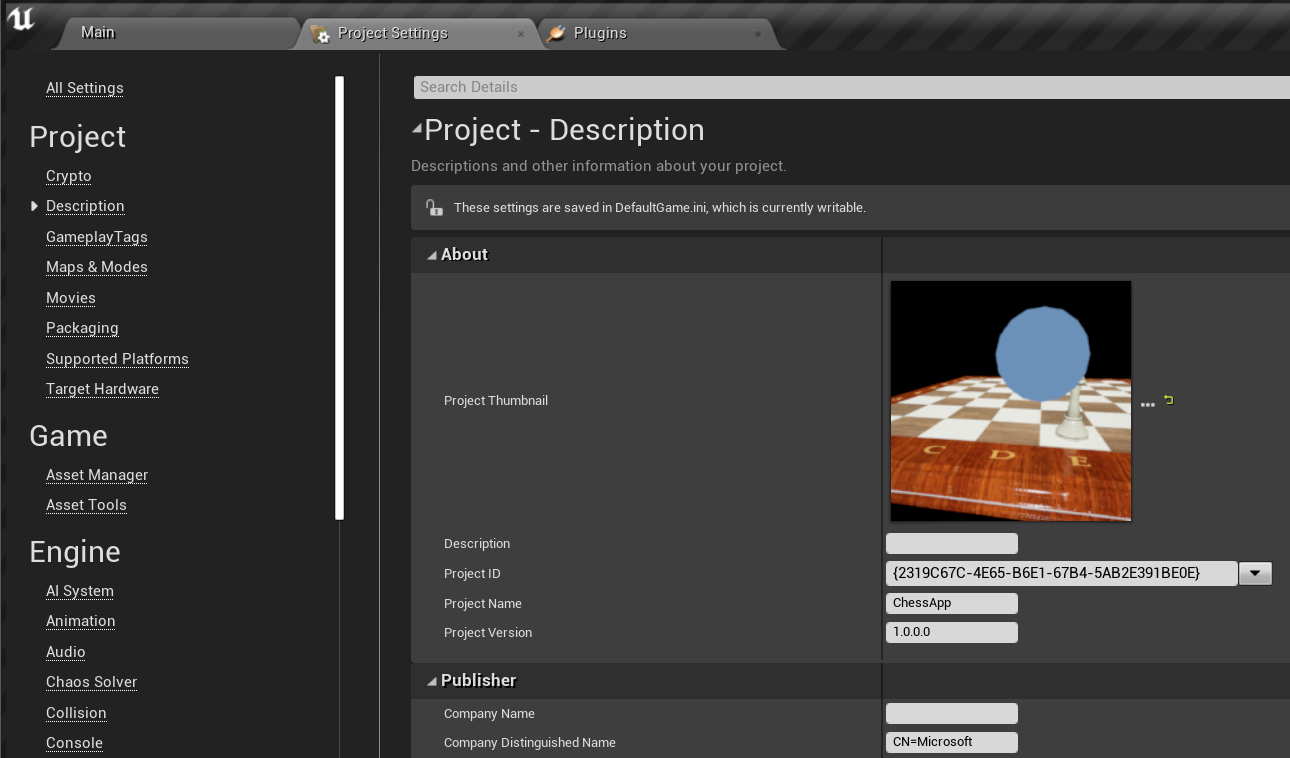
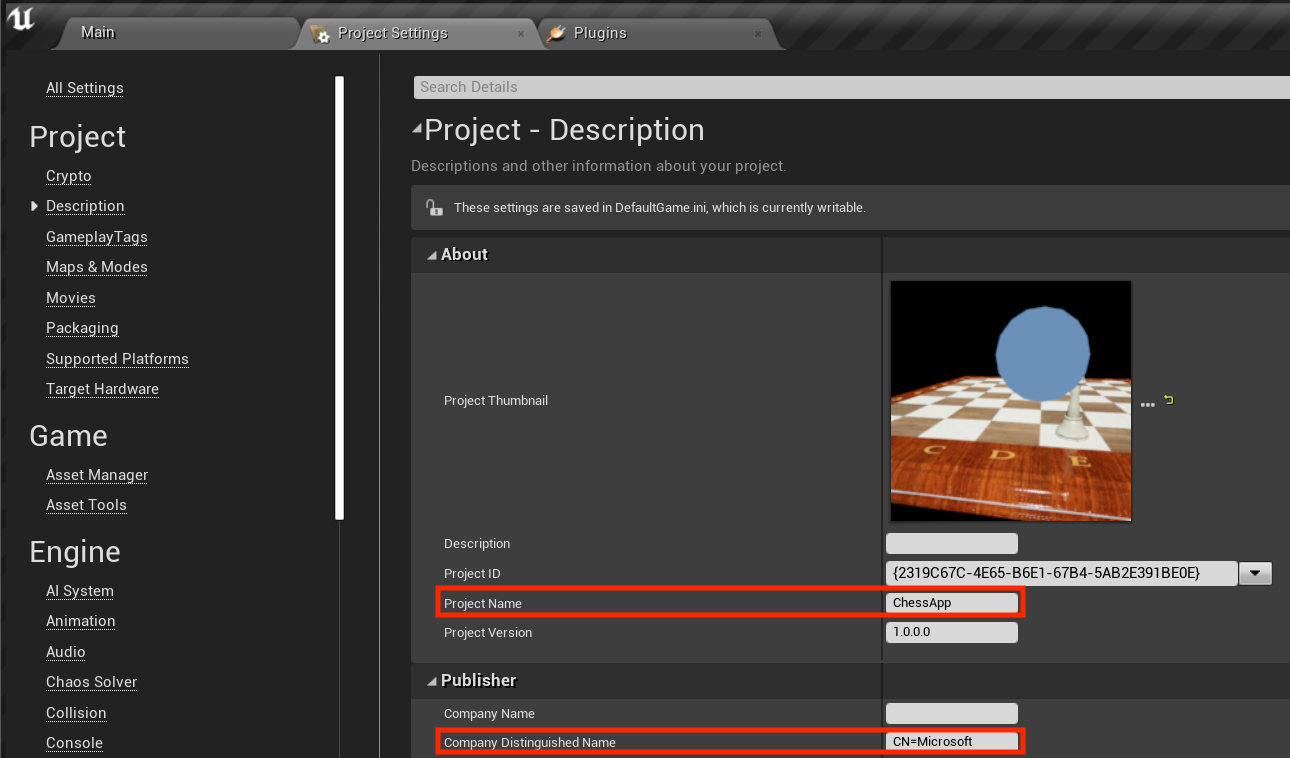
Update Unreal tutorial series 6/6. Add missing images, formatting, and content clarity. Readability increased from 60-61.

Changed region(s): [[0.3101, 0.9406, 0.8062, 1.0], [0.3101, 0.7586, 0.8062, 0.8193]]

diff --git a/mixed-reality-docs/unreal-uxt-ch6.md b/mixed-reality-docs/unreal-uxt-ch6.md
@@ -1,8 +1,8 @@
 ---
 title: 6. Packaging & deploying to device or emulator
-description: Part 6 of a tutorial to build a simple chess app using Unreal Engine 4 and the Mixed Reality Toolkit UX Tools plugin
-author: sw5813
-ms.author: suwu
+description: Part 6 of 6 in a tutorial series to build a simple chess app using Unreal Engine 4 and the Mixed Reality Toolkit UX Tools plugin
+author: hferrone
+ms.author: v-haferr
 ms.date: 5/5/2020
 ms.topic: article
 ms.localizationpriority: high
@@ -11,47 +11,62 @@ keywords: Unreal, Unreal Engine 4, UE4, HoloLens, HoloLens 2, mixed reality, tut
 
 # 6. Packaging & deploying to device or emulator
 
-This section walks you through the steps of preparing your app to run on a HoloLens 2 device or Emulator. If you have a device, you can either stream from your computer to the device or package the app to run directly on the device. If you do not have a device, you will need to package the app for it to run on the Emulator. 
+## Overview
+
+In the previous tutorial, you added a simple button that resets the chess piece to its original position. In this final section, you'll get the app ready to run on a HoloLens 2 or an Emulator. If you have a HoloLens 2, you can either stream from your computer or package the app to run directly on the device. If you don't have a device, you'll be packaging the app to run on the Emulator. By the end of this section, you'll have a deployed mixed reality app that you can play, complete with interactions and UI.
 
 ## Objectives
 
-* [Device only] Stream your app to HoloLens 2 via holographic app remoting
-* Package and deploy your app to a HoloLens 2 device or emulator
+* [Device only] Streaming to HoloLens 2 with holographic app remoting
+* Packaging and deploying the app to a HoloLens 2 device or emulator
 
-## [Device Only] Stream
+## [Device Only] Streaming
+[Holographic Remoting](https://docs.microsoft.com/windows/mixed-reality/add-holographic-remoting) in this case means streaming data from a PC or standalone UWP device to the HoloLens 2, not switching the channel. The way this works is a remoting host app receives an input data stream from a HoloLens, renders content in a virtual immersive view, and streams content frames back to HoloLens over Wi-Fi. Streaming allows you to add remote immersive views into existing desktop PC software and has access to more system resources. 
 
-1.	Install the **Holographic Remoting Player** from the Microsoft Store on your HoloLens 2 and run the app
+If you're going this route with the chess app, you'll need a few things:
 
-2.	Go to **Edit > Project Settings**. In the Holographic Remoting section, check the box to enable remoting and restart the editor.
+1.	Install the **Holographic Remoting Player** from the Microsoft Store on your HoloLens 2 and run the app.
 
-3.	Input the IP address of your device and click Connect.
+2.	Go to **Edit > Project Settings** and check **enable remoting** in the **Holographic Remoting** section.
 
-4.	Once you’re connected, in your UE4 Editor, click the drop-down arrow to the right of the Play button and select VR Preview.
+3.	Restart the editor, [find your device's IP address](https://docs.microsoft.com/windows/uwp/debug-test-perf/device-portal-hololens#connect-over-wi-fi) and enter it, then click **Connect**.
 
-## Package and deploy your app 
+Once you’re connected, click the drop-down arrow to the right of the **Play** button and select **VR Preview**. This will run the app in the VR Preview Window, which is streamed to the HoloLens headset. 
+
+## Packaging and deploying the app 
 
 >[!NOTE]
->If this is your first time packaging an Unreal app for HoloLens, you'll need to download supporting files from the Epic Launcher. To do so, go to the **Library** tab in the Epic Games Launcher. Select the dropdown arrow next to **Launch** and select **Options**. Under **Target Platforms**, select **HoloLens 2** and click **Apply**. 
+>If this is your first time packaging an Unreal app for HoloLens, you'll need to download supporting files from the Epic Launcher. 
+>- Go to the **Library** tab in the Epic Games Launcher, select the dropdown arrow next to **Launch** >and click **Options**. 
+>- Under **Target Platforms**, select **HoloLens 2** and click **Apply**. 
 >![Project Settings - Description](images/unreal-uxt/6-installationoptions.PNG)
 
-1.	Go to **Edit > Project Settings**. Under **Project > Description > About > Project Name**, give your project a name. Under **Project > Description > Publisher > Company Distinguished Name** put “CN={INSERT COMPANY NAME}”. Leaving either of these fields blank will result in an error. 
+1.	Go to **Edit > Project Settings**. 
+    * Add a project name under **Project > Description > About > Project Name**. 
+    * Add **CN={INSERT COMPANY NAME}** under **Project > Description > Publisher > Company Distinguished Name**.
+
+> [!IMPORTANT]
+> Leaving either of these fields blank will result in an error. 
 
 ![Project Settings - Description](images/unreal-uxt/6-cn.PNG)
 
-2.	Under **Platforms > HoloLens** choose Emulation and/or Device based on which you want to target.
+2.	Enable **Build for HoloLens Emulation** and/or **Build for HoloLens Device** under **Platforms > HoloLens**.
 
-3.	In the **Packaging** section, next to **Signing Certificate**, click the **Generate new** button to generate a new signing certificate. Return to the Main window.
+3.	Click **Generate new** in the **Packaging** section (next to **Signing Certificate**), then return to the Main window.
 
 ![Project Settings - Platforms - HoloLens](images/unreal-uxt/6-packaging.PNG)
 
-4.	Go to **File > Package Project** and select **HoloLens**. Create a new folder to save your package in and click **Select Folder**. 
+4.	Go to **File > Package Project** and select **HoloLens**. 
+    * Create a new folder to save your package in and click **Select Folder**. 
 
-5.	Once the app has been successfully packaged, open the **Windows Device Portal**, go to **Views > Apps**, and find the **Deploy apps** section.
+5.	Open the [Windows Device Portal](https://docs.microsoft.com/en-us/windows/mixed-reality/using-the-windows-device-portal) once the app is packaged, go to **Views > Apps** and find the **Deploy apps** section.
 
-6.	Click**Browse...** and navigate to your **ChessApp.appxbundle** file. Click **Open**. 
+6.	Click **Browse...**, go to your **ChessApp.appxbundle** file and click **Open**. 
 
-    * If this is the first time you are installing the app on your device, check the box next to **Allow me to select framework packages**. In the next dialogue, include the appropriate VCLibs appx file (arm64 for device, x64 for emulator). 
+    * Check the box next to **Allow me to select framework packages** if this is the first time you're installing the app on your device. 
+    * In the next dialogue, include the appropriate **VCLibs** and **appx** files (arm64 for device, x64 for emulator). You can find these under **HoloLens** inside the folder where you saved your package.
 
 7.	Click **Install**
+    * You can now go to **All Apps** and tap the the newly installed app to run it, or you can start the app directly from the **Windows Device Portal**. 
 
-Congratulations on finishing this tutorial!  
+Congratulations! You're HoloLens mixed reality application is finished and ready to go. However, this isn't the end of the road. MRTK has lots of standalone features that you can add to your projects, including spatial mapping, gaze and voice input, and even QR codes. More information on these features can be found in the [Unreal development overview](https://docs.microsoft.com/en-us/windows/mixed-reality/unreal-development-overview).

diff --git a/mixed-reality-docs/unreal-uxt-ch5.md b/mixed-reality-docs/unreal-uxt-ch5.md
@@ -2,7 +2,7 @@
 title: 5. Adding a button & resetting piece locations
 description: Part 5 of 6 in a tutorial series to build a simple chess app using Unreal Engine 4 and the Mixed Reality Toolkit UX Tools plugin
 author: hferrone
-ms.author: h-vaferr
+ms.author: v-haferr
 ms.date: 5/5/2020
 ms.topic: article
 ms.localizationpriority: high
@@ -10,6 +10,9 @@ keywords: Unreal, Unreal Engine 4, UE4, HoloLens, HoloLens 2, mixed reality, tut
 ---
 
 # 5. Adding a button & resetting piece locations
+
+
+## Overview
 
 In the previous tutorial, you added Hand Interaction Actors to the Pawn and Manipulator components to the chess board to make them both interactive. In this section, you'll continue working with the Mixed Reality Toolkit UX Tools plugin by building out the features of your chess app. This includes creating a new function and learning how to get references to Actors in a Blueprint. By the end of this section, you'll be ready to package and deploy the mixed reality app on a device or emulator.
 

diff --git a/mixed-reality-docs/unreal-uxt-ch4.md b/mixed-reality-docs/unreal-uxt-ch4.md
@@ -11,6 +11,8 @@ keywords: Unreal, Unreal Engine 4, UE4, HoloLens, HoloLens 2, mixed reality, tut
 
 # 4. Making your scene interactive
 
+## Overview
+
 In the previous tutorial you added an ARSession, Pawn, and Game Mode to complete the mixed reality setup for the chess app. This section focuses on using the open source [Mixed Reality Toolkit UX Tools](https://github.com/microsoft/MixedReality-UXTools-Unreal) plugin, which provides tools to make the scene interactive. By the end of this section you'll be able to move the chess pieces with user input. 
 
 ## Objectives
